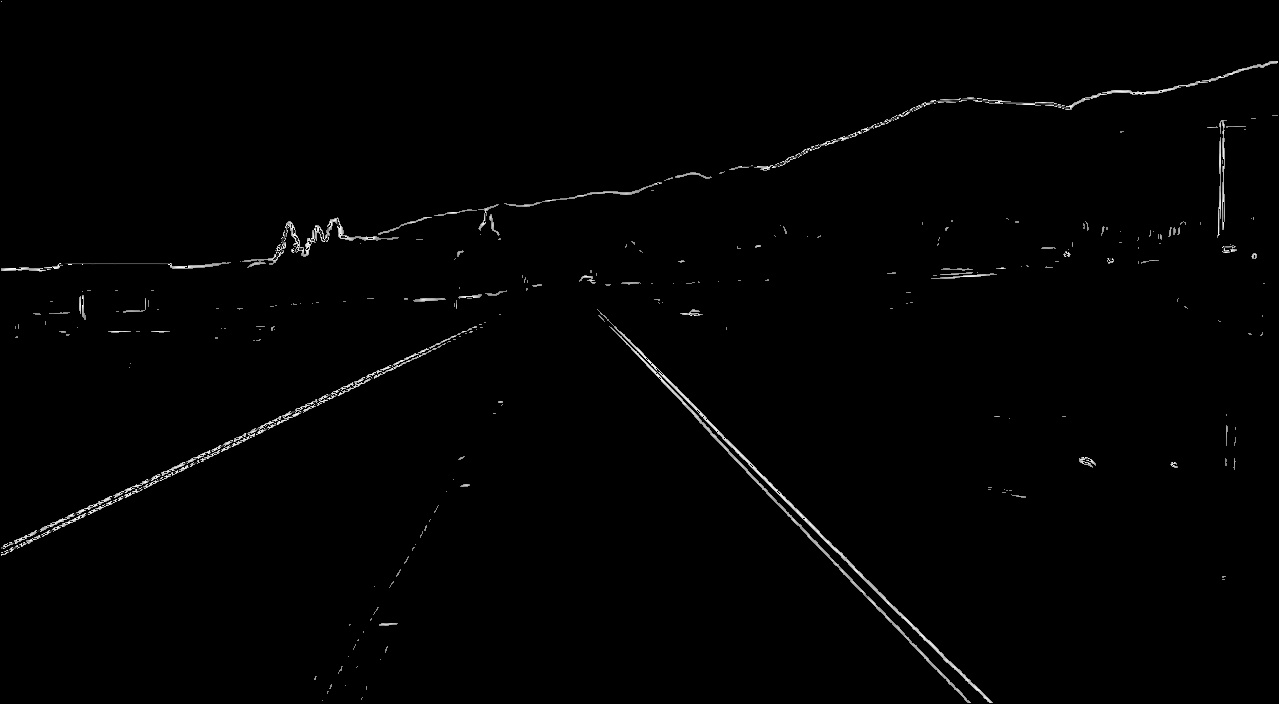
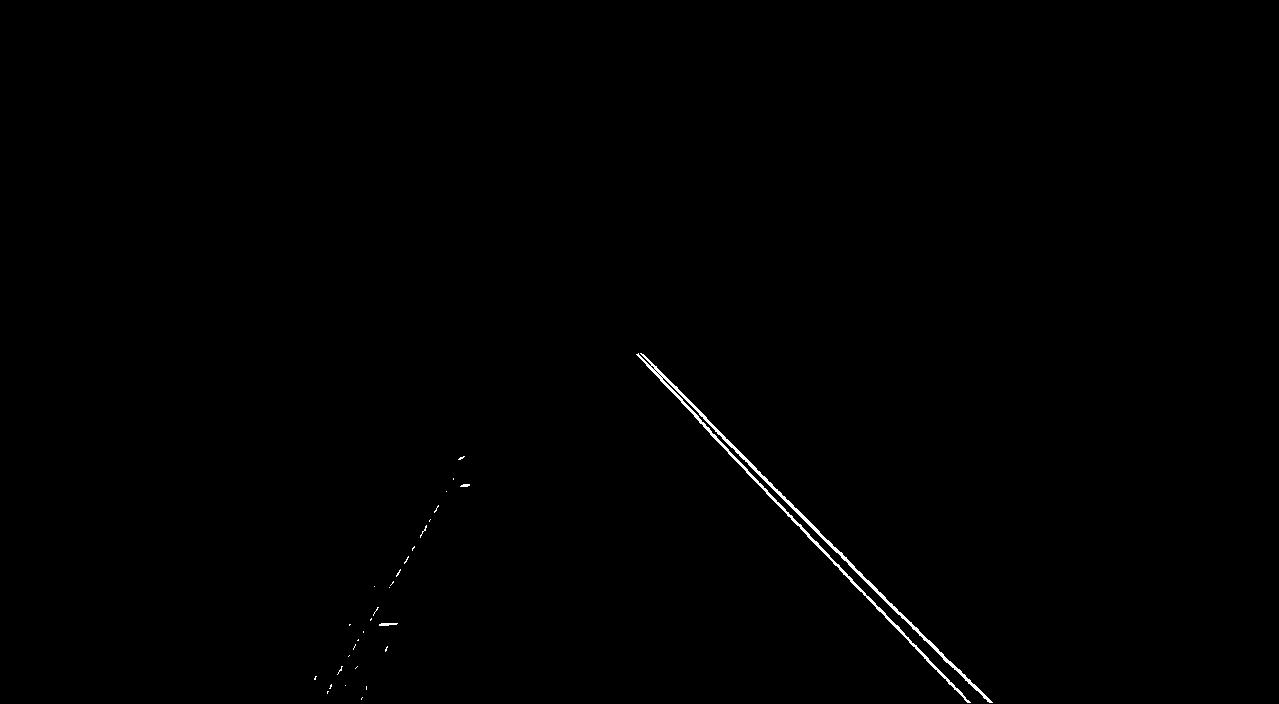
still need to fix back from hough space

diff --git a/library.py b/library.py
@@ -2,27 +2,18 @@ import numpy as np
 import matplotlib.pyplot as plt
 
 def whos(x: np.ndarray):
-    if isinstance(x, np.ndarray):
-        print(type(x), np.shape(x), type(x[0, 0]))
+    if len(np.shape(x)) == 3:
+        print(type(x), np.shape(x), type(x[0, 0, 0]))
     else:
-        print(type(x))
+        print(type(x), np.shape(x), type(x[0, 0]))
     
 def blackwhite(image: np.ndarray):
-    image = image.astype(np.int)
-    height, width, channels = np.shape(image)
-    output = np.zeros(shape=(height, width))
-    # for r in range(height):
-    #     for c in range(width):
-    #         # print(image[0, 0, 0], type(image[0, 0, 0]))
-    #         # print((image[r, c, 0] + image[r, c, 1] + image[r, c, 2]) / 3)
-    #         output[r, c] = round((image[r, c, 0] + image[r, c, 1] + image[r, c, 2]) / 3)
     output = (image[:, :, 0] + image[:, :, 1] + image[:, :, 2]) / 3
-    output = output.astype(np.uint8)
+    # output = output.astype(np.uint8)
     return output
 
 def sobel(image: np.ndarray):
-    image = image.astype(np.int)
-    threshold = 255 * 0.5
+    threshold = 1 * 0.5
     Gx = np.array([[-1, 0, 1],
                    [-2, 0, 2],
                    [-1, 0, 1]])
@@ -30,7 +21,7 @@ def sobel(image: np.ndarray):
                    [0, 0, 0],
                    [1, 2, 1]])
     height, width = np.shape(image)
-    output = np.zeros(shape=(height, width))
+    output = np.zeros(shape=(height, width), dtype=np.float32)
     
     for r in range(1, height-1):
         for c in range(1, width-1):
@@ -43,7 +34,6 @@ def sobel(image: np.ndarray):
                 output[r, c] = mag
             else:
                 output[r, c] = 0
-    output = output.astype(np.uint8)
     # print(np.amax(output), np.amin(output))
     return output
 
@@ -58,35 +48,43 @@ def region_of_interest(image: np.ndarray):
     # x = range(width)
     # y1 = left_slope*x + height
     # y2 = right_slope*x
-    output = np.zeros(shape=(height, width))
+    output = np.zeros(shape=(height, width), dtype=np.float32)
     for r in range(height):
         for c in range(width):
             y1 = left_slope*c + height
             y2 = right_slope*c
             if r > y1 and r > y2:
-                output[r, c] = 255 and image[r, c]  # white
+                output[r, c] = 1.0 and image[r, c]  # white
             else:
                 output[r, c] = 0 and image[r, c]  # black
-    output = output.astype(np.uint8)
     return output
     
 def test_image():
-    image = np.zeros(shape=(1000, 1000))
+    image = np.zeros(shape=(1000, 1000), dtype=np.float32)
     for i in range(1000):
-        image[i, i] = 255
-        image[500, i] = 255
-        image[i, 500] = 255
-        image[i, 1000-1-i] = 255
+        image[i, i] = 1.0
+        image[500, i] = 1.0
+        image[i, 500] = 1.0
+        image[i, 1000-1-i] = 1.0
     return image 
 
+def normalize(image: np.ndarray):
+    mymin = np.min(image)
+    mymax = np.max(image)
+    image = ((image - mymin) / (mymax - mymin))
+    return image
+
+def ceiling(image: np.ndarray):
+    image = np.where(image>0, 1.0, 0.0)
+    return image
+    
 def hough(image: np.ndarray):
-    image = image.astype(np.int)
     height, width = np.shape(image)
     maxdist = round(np.sqrt(height**2 + width**2))  # max distance
-    thetas = range(-90+1, 90+1, 1)  # range of thetas
-    rhos = range(-maxdist+1, maxdist+1, 1)  # range of rhos
+    thetas = range(-90, 90, 1)  # range of thetas
+    rhos = range(-maxdist, maxdist, 1)  # range of rhos
     # print(maxdist)
-    accumulator = np.zeros(shape=(len(rhos), len(thetas)))
+    accumulator = np.zeros(shape=(len(rhos), len(thetas)), dtype=np.float32)
     count = 0
     for r in range(height):
         for c in range(width):
@@ -95,36 +93,44 @@ def hough(image: np.ndarray):
                 for i in range(len(thetas)):  # for each theta
                     rho = c*np.cos(np.deg2rad(i)) + r*np.sin(np.deg2rad(i))  # compute rho
                     accumulator[round(rho)+maxdist, i] += 1  # vote rho x theta
-    accumulator = accumulator.astype(np.uint8)
-    plt.imshow(255*accumulator, cmap='gray', aspect='auto')    
-    plt.show()
+    
+    accumulator = normalize(accumulator)
+    # temp = ceiling(accumulator)
+    # plt.imshow(temp, cmap='gray', aspect='auto')    
+    # plt.show()
 
-    threshold = 255 * 0.9
+    threshold = 1 * 0.8
     a_height, a_width = np.shape(accumulator)
-    output = np.zeros(shape=(height, width))
+    output = np.zeros(shape=(height, width), dtype=np.float32)
     for r in range(a_height):
         for c in range(a_width):
             value = accumulator[r, c]  # at each point
             if value > threshold:  # if > than threshold
                 rho = rhos[r]  # fetch rho
                 theta = thetas[c]  # fetch theta
-                print(f'->rho: {rhos[r]}, theta: {thetas[c]}')
+                print(f'->rho: {rhos[r]}, theta: {thetas[c]},\trow: {r}, col: {c}')
 
                 if theta == 0:  # for vertical line
-                    x = (width)*[rho]  # list of x
+                    # x = (width)*[rho]  # list of x
                     y = range(0, height)  # list of y
-                    for i in range(width):
-                        output[y[i], x[i]] = 255
+                    for i in range(height):
+                        output[y[i], rho] = 1.0
                 else:  # any other line
                     x = range(0, width)  # list of x
                     for i in range(width):
                         y = (rho-x[i]*np.cos(np.deg2rad(theta))) / np.sin(np.deg2rad(theta))  # calc y
-                        # print(x[i], y)  +1278, -1535
+                        y = np.abs(round(y))
+                        print(x[i], y) # +1278, -1535
                         if y>=0 and y<=height-1:
                             count += 1
-                            output[round(y), x[i]] = 255
-    output = output.astype(np.uint8)
+                            output[y, x[i]] = 1.0
+                        
+                # x = rho*np.cos(np.deg2rad(theta))
+                # y = rho*np.sin(np.deg2rad(theta))
+                # print(x, y)
+                # count += 1
+                # output[round(y), round(x)] = 1.0
     print(count)
-    plt.imshow(output, cmap='gray')    
-    plt.show()
+    # plt.imshow(output, cmap='gray')    
+    # plt.show()
     return output

diff --git a/lane detection.py b/lane detection.py
@@ -11,25 +11,24 @@ from library import *
 # imagetest = test_image()
 # plt.imshow(imagetest, cmap='gray')
 # plt.show()
-# hough(imagetest)
+# myimage = hough(imagetest)
 
-image = cv2.imread('pics/test_image.jpg')
-# image = plt.imread('pics/test_image.jpg')
-print(np.shape(image))
-# myimage = (image[:,:,0]+image[:,:,1]+image[:,:,2])/3
+image = plt.imread('pics/test_image.jpg')
+whos(image)
 
 myimage = blackwhite(image)
+# print(myimage)
 whos(myimage)
-# myimage = sobel(myimage)
-# whos(myimage)
-# myimage = region_of_interest(myimage)
-# whos(myimage)
-# myimage = hough(myimage)
-# whos(myimage)
+myimage = sobel(myimage)
+whos(myimage)
+myimage = region_of_interest(myimage)
+whos(myimage)
 
-# cv2.imwrite('pics/mine.jpg', myimage)
-# cv2.imshow('result', myimage)
-# cv2.waitKey(0)
+# plt.imsave('pics/mine.jpg', myimage, cmap='gray')
+# myimage = plt.imread('pics/mine.jpg')
+
+myimage = hough(myimage)
+whos(myimage)
 
 plt.imshow(myimage, cmap='gray')
 plt.show()
